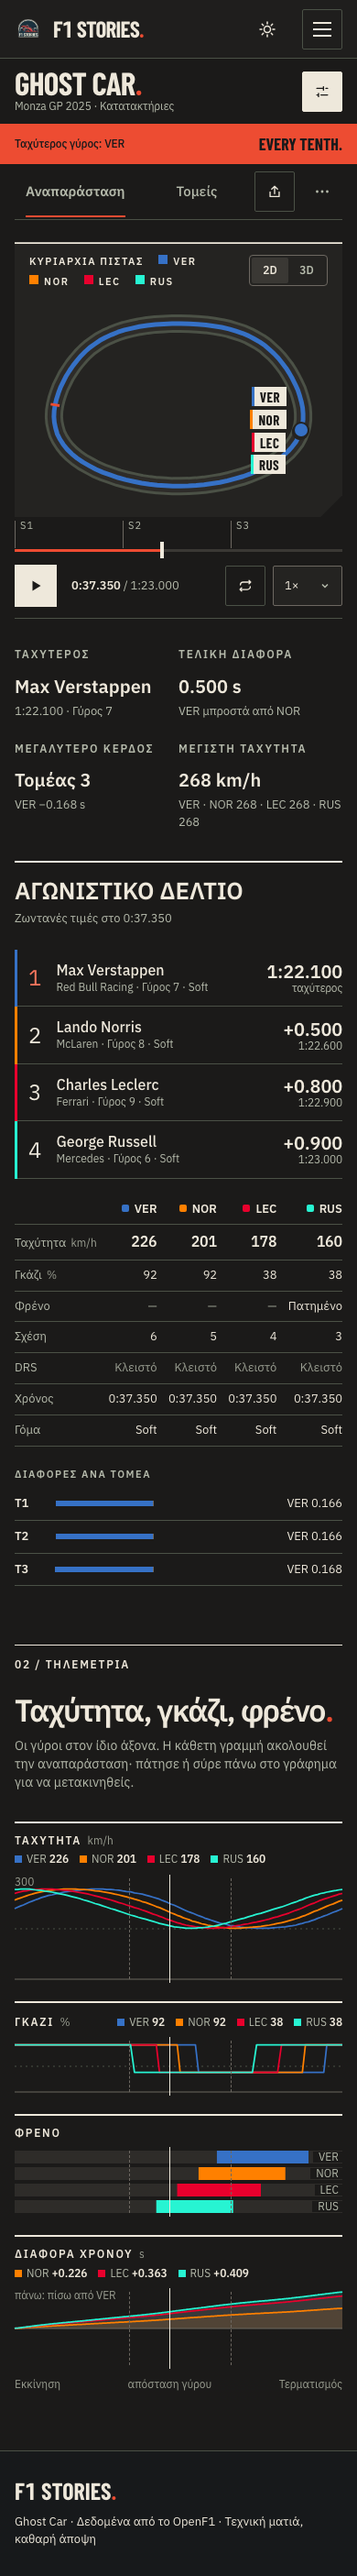
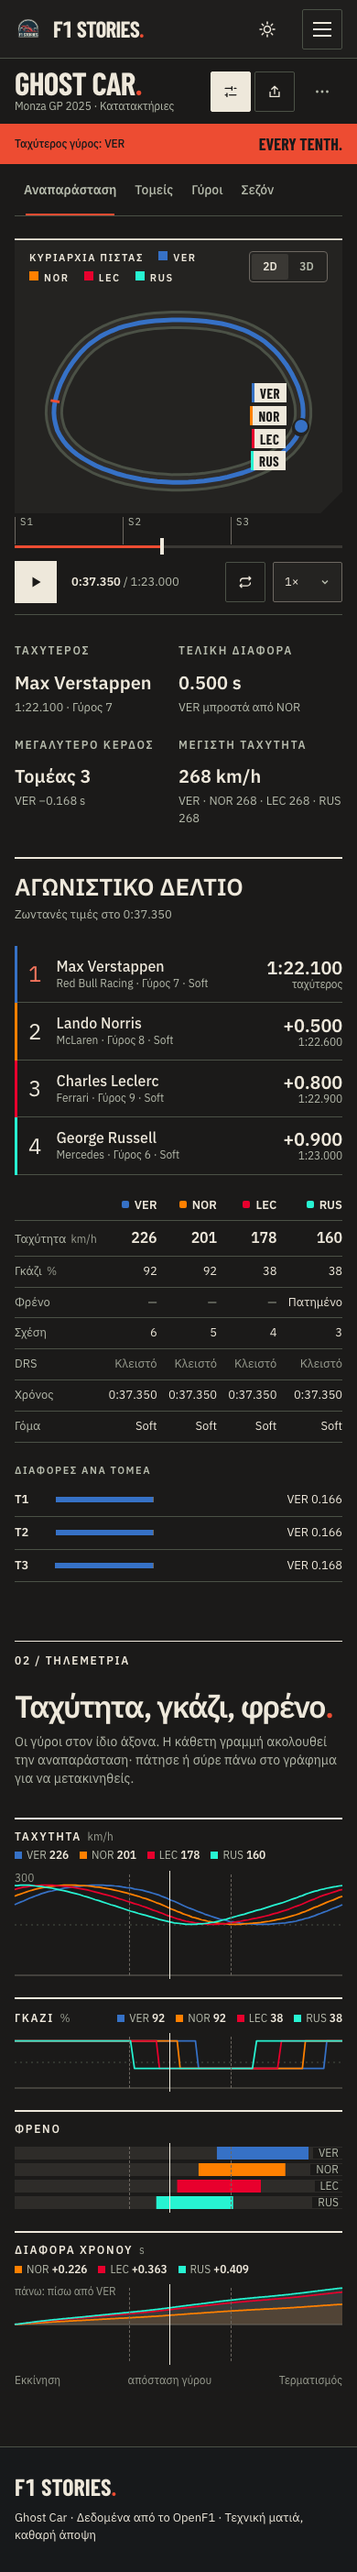
Fix the known issues: 3D dots, replay clock, phone tabs, site drift
- 3D: trails grow only during playback and are cleared on any jump
  (paused seek, scrub, loop). A paused seek used to leave one point per
  car mid-glide, the long-standing "two coloured dots".
- Replay: the stage plays applyClockOffsets(model, trace), so cars use
  the same corrected clock as the gap chart when the trace is reliable;
  dominance segments now map onto driver A's corrected clock too.
- Phones: share and more move into the one-line opening, the season tab
  shows "Σεζόν" (full accessible name kept); all four tabs fit at
  320-430px.
- Drift: npm run check:site compares the copied nav (now in
  src/app/siteNav.js), palette and logo with the live f1StoriesPage
  source and fails on changes.
- Tests: unit tests for applyClockOffsets, e2e for phone tabs; docs,
  plan and final captures updated.

diff --git a/src/F1PhantomCars.jsx b/src/F1PhantomCars.jsx
@@ -1,11 +1,11 @@
 import { useCallback, useEffect, useMemo, useRef, useState } from "react";
 import { CAM_MODES } from "./constants.js";
-import { buildGapTrace, dominanceSegments, sectorTicks } from "./domain/gap.js";
+import { applyClockOffsets, buildGapTrace, dominanceSegments, sectorTicks } from "./domain/gap.js";
 import { findLapByNumber } from "./domain/laps.js";
 import { decodeURL, encodeURL, useIsMobile } from "./helpers.js";
 import Dialog from "./components/ui/Dialog.jsx";
 import Icon, { IconButton } from "./components/ui/Icon.jsx";
-import { BuilderUtilities } from "./app/ComparisonActions.jsx";
+import { BuilderUtilities, TabActions } from "./app/ComparisonActions.jsx";
 import DeskHero from "./app/DeskHero.jsx";
 import { Colophon, SignalBand, describeResult } from "./app/SignalBand.jsx";
 import SiteMasthead from "./app/SiteMasthead.jsx";
@@ -45,7 +45,7 @@ const SUPPORTED_SESSION_NAMES = [
   "Practice 3",
 ];
 const PLAYABLE_PRESETS = getPlayablePresets(UNAVAILABLE_PRESET_YEARS);
-const NO_ANALYSIS = { trace: null, dominance: [], ticks: [] };
+const NO_ANALYSIS = { trace: null, dominance: [], ticks: [], stageModel: null };
 
 function createRestoreFlags() {
   return { meeting: false, session: false, drivers: false, lap1: false, lap2: false, lap3: false, lap4: false };
@@ -178,12 +178,17 @@ export default function App({ embed }) {
   // The playback clock runs in real seconds of the loaded replay; prog is time / duration.
   durationRef.current = model?.duration || durationRef.current;
   const time = prog * (model?.duration || 0);
-  // Derived once per replay: gap at the same point on track (with its reliability), who is faster where,
-  // and the sector lines on the time axis.
+  // Derived once per replay: gap at the same point on track (with its reliability), who is faster where, the
+  // sector lines on the time axis, and the model the stage plays (position clocks corrected when the trace holds).
   const analysis = useMemo(() => {
     if (!model) return NO_ANALYSIS;
     const trace = buildGapTrace(model);
-    return { trace, dominance: dominanceSegments(trace), ticks: sectorTicks(model) };
+    return {
+      trace,
+      dominance: dominanceSegments(trace),
+      ticks: sectorTicks(model),
+      stageModel: applyClockOffsets(model, trace),
+    };
   }, [model]);
   const [driverA, driverB] = model?.drivers || [];
   const season = useSeasonComparison({
@@ -475,7 +480,7 @@ export default function App({ embed }) {
   const replayLoading = loading && ldPct !== undefined ? loading : "";
   const stage = model && (
     <ReplayStage
-      model={model}
+      model={analysis.stageModel}
       stageRef={stageRef}
       time={time}
       progRef={progRef}
@@ -548,7 +553,11 @@ export default function App({ embed }) {
   } else if (model) {
     surface = (
       <div className="workspace">
-        <DeskHero model={model} onEdit={actions.editComparison} />
+        <DeskHero
+          model={model}
+          onEdit={actions.editComparison}
+          tools={<TabActions actions={actions} showreel={showreel.active} />}
+        />
         <SignalBand load={loadStatus}>
           <span className="band__minor num">● Αναπαράσταση · {Math.round(prog * 100)}%</span>
           <span className="band__sep" />

diff --git a/src/domain/gap.js b/src/domain/gap.js
@@ -209,6 +209,10 @@ export function buildGapTrace(model, { points = 400 } = {}) {
     gaps: smooth(grid.map((_, k) => times[driver.slot][k] - times[fastest.slot][k])),
   }));
 
+  // Driver A's samples on the same (offset-corrected) clock as `times`, so segments land where they belong.
+  const firstTimes = offsets[first.slot]
+    ? first.pathTimes.map((seconds) => seconds - offsets[first.slot])
+    : first.pathTimes;
   const trace = {
     reliable: !tooFar && !failed,
     reason: tooFar
@@ -223,9 +227,26 @@ export function buildGapTrace(model, { points = 400 } = {}) {
     checks,
     offsets,
     // Where each grid point falls on the replay's track geometry (driver A's samples), as a fraction.
-    trackFractions: grid.map((_, k) => fractionAtTime(first.pathTimes, times[first.slot][k])),
+    trackFractions: grid.map((_, k) => fractionAtTime(firstTimes, times[first.slot][k])),
   };
   return trace;
+}
+
+/**
+ * The replay model with each driver's position timestamps corrected by the clock offset the trace measured, so
+ * the cars on the stage line up with the official timing too. Only for a reliable trace; otherwise unchanged.
+ */
+export function applyClockOffsets(model, trace) {
+  const offsets = trace?.reliable ? trace.offsets : null;
+  if (!model || !offsets || !Object.values(offsets).some(Boolean)) return model;
+  return {
+    ...model,
+    drivers: model.drivers.map((driver) =>
+      offsets[driver.slot]
+        ? { ...driver, pathTimes: driver.pathTimes.map((seconds) => seconds - offsets[driver.slot]) }
+        : driver
+    ),
+  };
 }
 
 // On a trace's grid: where (0–1 of the lap distance) a driver is at `time`, and when they pass `distance`.

diff --git a/src/app/DeskHero.jsx b/src/app/DeskHero.jsx
@@ -4,7 +4,7 @@ import Icon from "../components/ui/Icon.jsx";
 
 // Page opening, as on f1stories.gr /standings/: crumb, "GHOST CAR." display title, and an aside.
 // Builder: tagline and a short explanation. Loaded: the event, the drivers and laps, and "change comparison".
-function DeskHero({ model, onEdit }) {
+function DeskHero({ model, onEdit, tools }) {
   return (
     <section className={model ? "hero hero--loaded" : "hero"} aria-labelledby="hero-title">
       <div className="crumb">
@@ -36,11 +36,15 @@ function DeskHero({ model, onEdit }) {
                   </li>
                 ))}
               </ul>
-              <button type="button" className="btn btn--ink hero__edit" onClick={onEdit}>
-                <Icon name="edit" size={18} />
-                <span className="hero__action-label">Αλλαγή σύγκρισης</span>
-                <Icon name="arrow" size={18} />
-              </button>
+              <div className="hero__actions">
+                <button type="button" className="btn btn--ink hero__edit" onClick={onEdit}>
+                  <Icon name="edit" size={18} />
+                  <span className="hero__action-label">Αλλαγή σύγκρισης</span>
+                  <Icon name="arrow" size={18} />
+                </button>
+                {/* On phones the tab row's actions sit here, so the four tabs keep the full width. */}
+                {tools && <div className="hero__tools">{tools}</div>}
+              </div>
             </>
           ) : (
             <>

diff --git a/test/gap.test.js b/test/gap.test.js
@@ -1,6 +1,7 @@
 import assert from "node:assert/strict";
 import test from "node:test";
 import {
+  applyClockOffsets,
   buildGapTrace,
   distanceAtTimeOnGrid,
   dominanceSegments,
@@ -78,9 +79,16 @@ test("a location clock that runs behind the lap timing is measured from the sect
   assert.ok(Math.abs(trace.offsets[2] - 0.15) < 0.02, `offset ${trace.offsets[2]}`);
   const k = 200;
   assert.ok(Math.abs(trace.series[0].gaps[k] - 0.5 * trace.d[k]) < 0.03, `gap ${trace.series[0].gaps[k]}`);
+  // The replay reuses the correction: NOR's position clock moves back by the measured offset; VER is the reference.
+  const replay = applyClockOffsets(model(a, b), trace);
+  assert.equal(replay.drivers[0].pathTimes, a.pathTimes);
+  assert.ok(Math.abs(b.pathTimes[10] - replay.drivers[1].pathTimes[10] - trace.offsets[2]) < 1e-9);
   // Far beyond any plausible clock skew, the data is refused.
-  const late = buildGapTrace(model(a, driver({ slot: 2, label: "NOR", lap: 80.5, clock: 0.9, offset: 0.05 })));
+  const lateModel = model(a, driver({ slot: 2, label: "NOR", lap: 80.5, clock: 0.9, offset: 0.05 }));
+  const late = buildGapTrace(lateModel);
   assert.equal(late.reliable, false);
+  // An unreliable trace never touches the replay.
+  assert.equal(applyClockOffsets(lateModel, late), lateModel);
 });
 
 test("incomplete position data is refused before any calculation", () => {

diff --git a/e2e/scene.smoke.spec.js b/e2e/scene.smoke.spec.js
@@ -384,3 +384,20 @@ test("the track image download is a self-contained SVG", async ({ page }) => {
   expect(svg).toMatch(/<path[^>]+stroke="rgb\(/);
   expect(svg).not.toMatch(/class="track-map__/);
 });
+
+test("on a phone all four tabs fit, and share sits in the one-line opening", async ({ page }) => {
+  await page.setViewportSize({ width: 390, height: 844 });
+  await setPreferences(page, { trackView: "2d" });
+  await routeOpenF1(page);
+  await page.goto(comparisonUrl);
+  await expect(trackMap(page)).toBeVisible();
+  const tabs = page.getByRole("tab");
+  await expect(tabs).toHaveCount(4);
+  for (const box of await tabs.evaluateAll((nodes) => nodes.map((node) => node.getBoundingClientRect().right))) {
+    expect(box).toBeLessThanOrEqual(390);
+  }
+  // The short label is what shows; the full label is still the tab's name.
+  await expect(page.getByRole("tab", { name: "Κατατακτήριες σεζόν" })).toContainText("Σεζόν");
+  await page.getByRole("button", { name: "Κοινοποίηση" }).click();
+  await expect(page.getByRole("menuitem", { name: "Αντιγραφή συνδέσμου" })).toBeVisible();
+});

diff --git a/src/app/SiteMasthead.jsx b/src/app/SiteMasthead.jsx
@@ -1,19 +1,7 @@
 import { memo, useEffect, useId, useState } from "react";
 import { fetchJSON } from "../api.js";
 import Icon from "../components/ui/Icon.jsx";
-
-// Mirrors f1StoriesPage/partials/nav.html (29 Sep 2026) plus Ghost Car itself. Re-check when the site nav changes.
-const SITE = "https://f1stories.gr";
-const NAV_LINKS = [
-  { label: "Αρχική", href: `${SITE}/` },
-  { label: "Άρθρα", href: `${SITE}/blog-module/blog/index.html` },
-  { label: "YouTube", href: "https://www.youtube.com/@f1_stories_original", external: true },
-  { label: "Βαθμολογία", href: `${SITE}/standings/` },
-  { label: "Δεδομένα", href: `${SITE}/standings/?tab=tyre-pace` },
-  { label: "Ghost Car", href: "./", current: true },
-  { label: "Συντάκτες", href: `${SITE}/authors/` },
-  { label: "BetCast", href: "https://georgiosbalatzis.github.io/BetCastVisualisation/", external: true },
-];
+import { NAV_LINKS, SITE } from "./siteNav.js";
 
 // Next race from the OpenF1 calendar (it lists the whole season, including cancellations). Hidden on any failure.
 function useNextRace() {

diff --git a/src/scene/updateCars.js b/src/scene/updateCars.js
@@ -117,7 +117,7 @@ export function updateCarsAndMarkers({
   sceneState,
   trackPath,
   carProgress,
-  progressChanged,
+  jumped,
   isPlaying,
   deltaTime,
   playbackSpeed,
@@ -142,7 +142,17 @@ export function updateCarsAndMarkers({
   const maxOffset = 0.7;
   const proximity = Math.max(0, 1 - dist / closeThreshold);
   const lateralOffset = proximity * maxOffset;
-  const shouldAdvanceTrail = isPlaying || progressChanged;
+  // Trails are the path just driven, so they only grow during playback. After a jump they are cleared: otherwise a
+  // single point recorded mid-glide stays behind as a stray dot (the "two coloured dots" of earlier versions).
+  if (jumped) {
+    for (const trail of [tr1, tr2, sceneState.tr3, sceneState.tr4]) {
+      if (!trail?.count) continue;
+      trail.count = 0;
+      trail.mesh.geometry.setDrawRange(0, 0);
+      needsRender = true;
+    }
+  }
+  const shouldAdvanceTrail = isPlaying && !jumped;
 
   const updateOptions = {
     fallbackPath: trackPath,

diff --git a/src/scene/renderLoop.js b/src/scene/renderLoop.js
@@ -63,6 +63,8 @@ export function startSceneRenderLoop({
     noiseFrame = (noiseFrame + 1) & 255;
     const prog = sceneState._progRef?.current ?? 0;
     const progChanged = prog !== lastProg;
+    // A seek while paused, a scrub or the loop restarting moves the cars in one step: their trails must start over.
+    const jumped = progChanged && (!sceneState._playRef?.current || Math.abs(prog - lastProg) > 0.01);
     if (progChanged) lastProg = prog;
     // prog is the shared clock (share of the slowest lap); each car's position comes from its own timestamps.
     const timing = sceneState._timingRef?.current;
@@ -93,7 +95,7 @@ export function startSceneRenderLoop({
       sceneState,
       trackPath,
       carProgress,
-      progressChanged: progChanged,
+      jumped,
       isPlaying,
       deltaTime: dt,
       playbackSpeed,

diff --git a/src/app/siteNav.js b/src/app/siteNav.js
@@ -1,0 +1,13 @@
+// The f1stories.gr site nav, copied from f1StoriesPage/partials/nav.html (29 Sep 2026), plus Ghost Car itself.
+// `npm run check:site` compares it with the live partial.
+export const SITE = "https://f1stories.gr";
+export const NAV_LINKS = [
+  { label: "Αρχική", href: `${SITE}/` },
+  { label: "Άρθρα", href: `${SITE}/blog-module/blog/index.html` },
+  { label: "YouTube", href: "https://www.youtube.com/@f1_stories_original", external: true },
+  { label: "Βαθμολογία", href: `${SITE}/standings/` },
+  { label: "Δεδομένα", href: `${SITE}/standings/?tab=tyre-pace` },
+  { label: "Ghost Car", href: "./", current: true },
+  { label: "Συντάκτες", href: `${SITE}/authors/` },
+  { label: "BetCast", href: "https://georgiosbalatzis.github.io/BetCastVisualisation/", external: true },
+];

diff --git a/src/components/ui/Tabs.jsx b/src/components/ui/Tabs.jsx
@@ -30,7 +30,17 @@ export default function Tabs({ label, tabs, active, onChange, className = "", as
               tabIndex={tab.id === active ? 0 : -1}
               onClick={() => onChange(tab.id)}
             >
-              {tab.label}
+              {tab.short ? (
+                // Phones show the short label; the full one stays the accessible name.
+                <>
+                  <span className="tabs__long">{tab.label}</span>
+                  <span className="tabs__short" aria-hidden="true">
+                    {tab.short}
+                  </span>
+                </>
+              ) : (
+                tab.label
+              )}
             </button>
           ))}
         </div>

diff --git a/src/app/app.css b/src/app/app.css
@@ -221,6 +221,14 @@ main:focus {
 .hero__lap {
   color: var(--text-2);
 }
+.hero__actions {
+  display: flex;
+  align-items: center;
+  gap: var(--space-1);
+}
+.hero__tools {
+  display: none;
+}
 .hero__edit {
   justify-content: space-between;
   gap: var(--space-4);
@@ -293,6 +301,12 @@ main:focus {
   }
   .hero--loaded .hero__edit .icon:last-child {
     display: none;
+  }
+  .hero--loaded .hero__tools {
+    display: block;
+  }
+  .hero--loaded .hero__tools .tab-actions {
+    padding: 0;
   }
   .hero__action-label {
     position: absolute;

diff --git a/src/styles/base.css b/src/styles/base.css
@@ -502,6 +502,22 @@ textarea.input {
   height: 2px;
   background: var(--accent);
 }
+.tabs__short {
+  display: none;
+}
+@media (max-width: 767px) {
+  .tabs__long:has(+ .tabs__short) {
+    position: absolute;
+    width: 1px;
+    height: 1px;
+    overflow: hidden;
+    clip-path: inset(50%);
+    white-space: nowrap;
+  }
+  .tabs__short {
+    display: inline;
+  }
+}
 /* A tablist with actions at the end of the same row (Tabs `aside`). */
 .tabs-row {
   display: flex;
